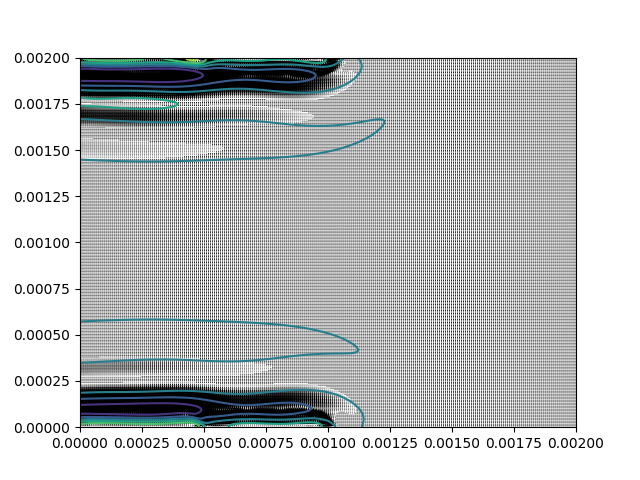
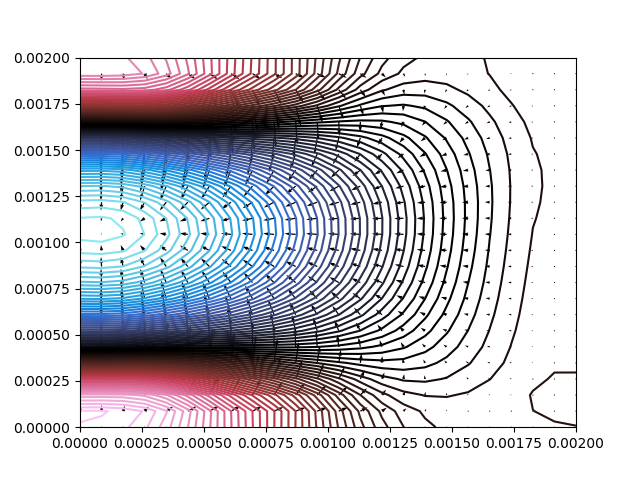
Good parameters, no terrible simulation

diff --git a/fluid_solver.py b/fluid_solver.py
@@ -124,7 +124,7 @@ class boundary_condition():
         self.dim = len(up)
 
 class pde_fluid_solver():
-    def __init__(self,fluid_ic,bc_ux,bc_uy,N_time,dt,Lx,Ly):
+    def __init__(self,fluid_ic,bc_ux,bc_uy,N_time,dt,Lx,Ly,ignore_st = False):
         self.initial_condition = fluid_ic
         self.bc_ux = bc_ux
         self.bc_uy = bc_uy
@@ -143,11 +143,11 @@ class pde_fluid_solver():
         Fy = fluid_ic.viscosity*dt/self.dy**2
         Cx = np.mean(np.mean(np.abs(fluid_ic.ux)+np.abs(fluid_ic.uy)))*dt/self.dx
         Cy = Cx*self.dx/self.dy
-        if Fx > 0.25 or Fy > 0.25:
+        if (Fx > 0.25 or Fy > 0.25) and not ignore_st:
             raise ValueError('Invalid fourier number. You need bigger grid or more little time step.  The stabilities parameters are  [Fx,Fy] = [%1.3f,%1.3f] [Cx,Cy]] =[%1.3f,%1.3f]'%(Fx,Fy,Cx,Cy))
-        if Cy > 1 or Cx > 1:
+        if Cy > 1 or Cx > 1 and not ignore_st:
             TypeError('Invalid C factor. You need dx/dt of the order of velocities. The stabilities parameters are  [Fx,Fy] = [%1.3f,%1.3f] [Cx,Cy]] =[%1.3f,%1.3f]'%(Fx,Fy,Cx,Cy))
-        print(Fore.BLUE + 'Solver pde class created successfully. The stabilities parameters are  [Fx,Fy] = [%1.3f,%1.3f] [Cx,Cy]] =[%1.3f,%1.3f]'%(Fx,Fy,Cx,Cy) + Style.RESET_ALL)
+        print(Fore.BLUE + 'Solver pde class created successfully. The stabilities parameters are  [Fx,Fy] = [%1.3f,%1.3f] [Cx,Cy] =[%1.3f,%1.3f]'%(Fx,Fy,Cx,Cy) + Style.RESET_ALL)
     def presure_solver(self,left_side,right_side,precision = 0.05,max_reps = np.inf):
         p = left_side.copy()
         p_new = p.copy()

diff --git a/main.py b/main.py
@@ -3,13 +3,14 @@ import matplotlib.pyplot as plt
 import os
 
 from fluid_solver import *
+import cmasher as cmr
 
 u_slot = 1
 u_coflow = 0.5
-N_space = 248
+N_space = 24
 N_time = 15
 Lx,Ly = 2e-3,2e-3
-dt = 25*(np.mean([u_slot,u_coflow])/Lx*N_space**2)**-1
+dt = 5e-7#100*(np.mean([u_slot,u_coflow])/Lx*N_space**2)**-1
 print(dt)
 [X,Y] = np.meshgrid(np.linspace(0,Lx,N_space),np.linspace(0,Lx,N_space))
 up_bc_uy = np.ones(N_space)
@@ -52,10 +53,10 @@ main_fluid = fluid_initial_condition(u_0x = u0x,
 bc_ux = boundary_condition(up_bc_ux,down_bc_ux)
 bc_uy = boundary_condition(up_bc_uy,down_bc_uy)
 
-solver = pde_fluid_solver(main_fluid,bc_ux,bc_uy,N_time,dt,Lx,Ly)
+solver = pde_fluid_solver(main_fluid,bc_ux,bc_uy,N_time,dt,Lx,Ly,ignore_st = True)
 
 #solver.presure_solver(np.ones([N_space,N_space]),precision = 0.05,max_reps = 1000)
-solver.solve_navier_stokes(N_time,precision_jac = 0.05,repeat_jac = 150)
+solver.solve_navier_stokes(N_time,precision_jac = 0.1,repeat_jac = 50000)
 
 
 # Change this to the path on your oun laptop
@@ -63,7 +64,6 @@ path = '/Users/Pacopol/Desktop/Plasma Physics and Fusion Master/Numerical Method
 
 for k in np.arange(1,N_time,1):
     fig = plt.figure()
-    plt.contour(X,Y,solver.p[:,:,k])
-    plt.colorbar
+    plt.contour(X,Y,solver.p[:,:,k],cmap=cmr.redshift,levels=100)
     plt.quiver(X,Y,solver.ux[:,:,k],solver.uy[:,:,k])
     fig.savefig(path + '/' + 'frame%i.png'%(k))
